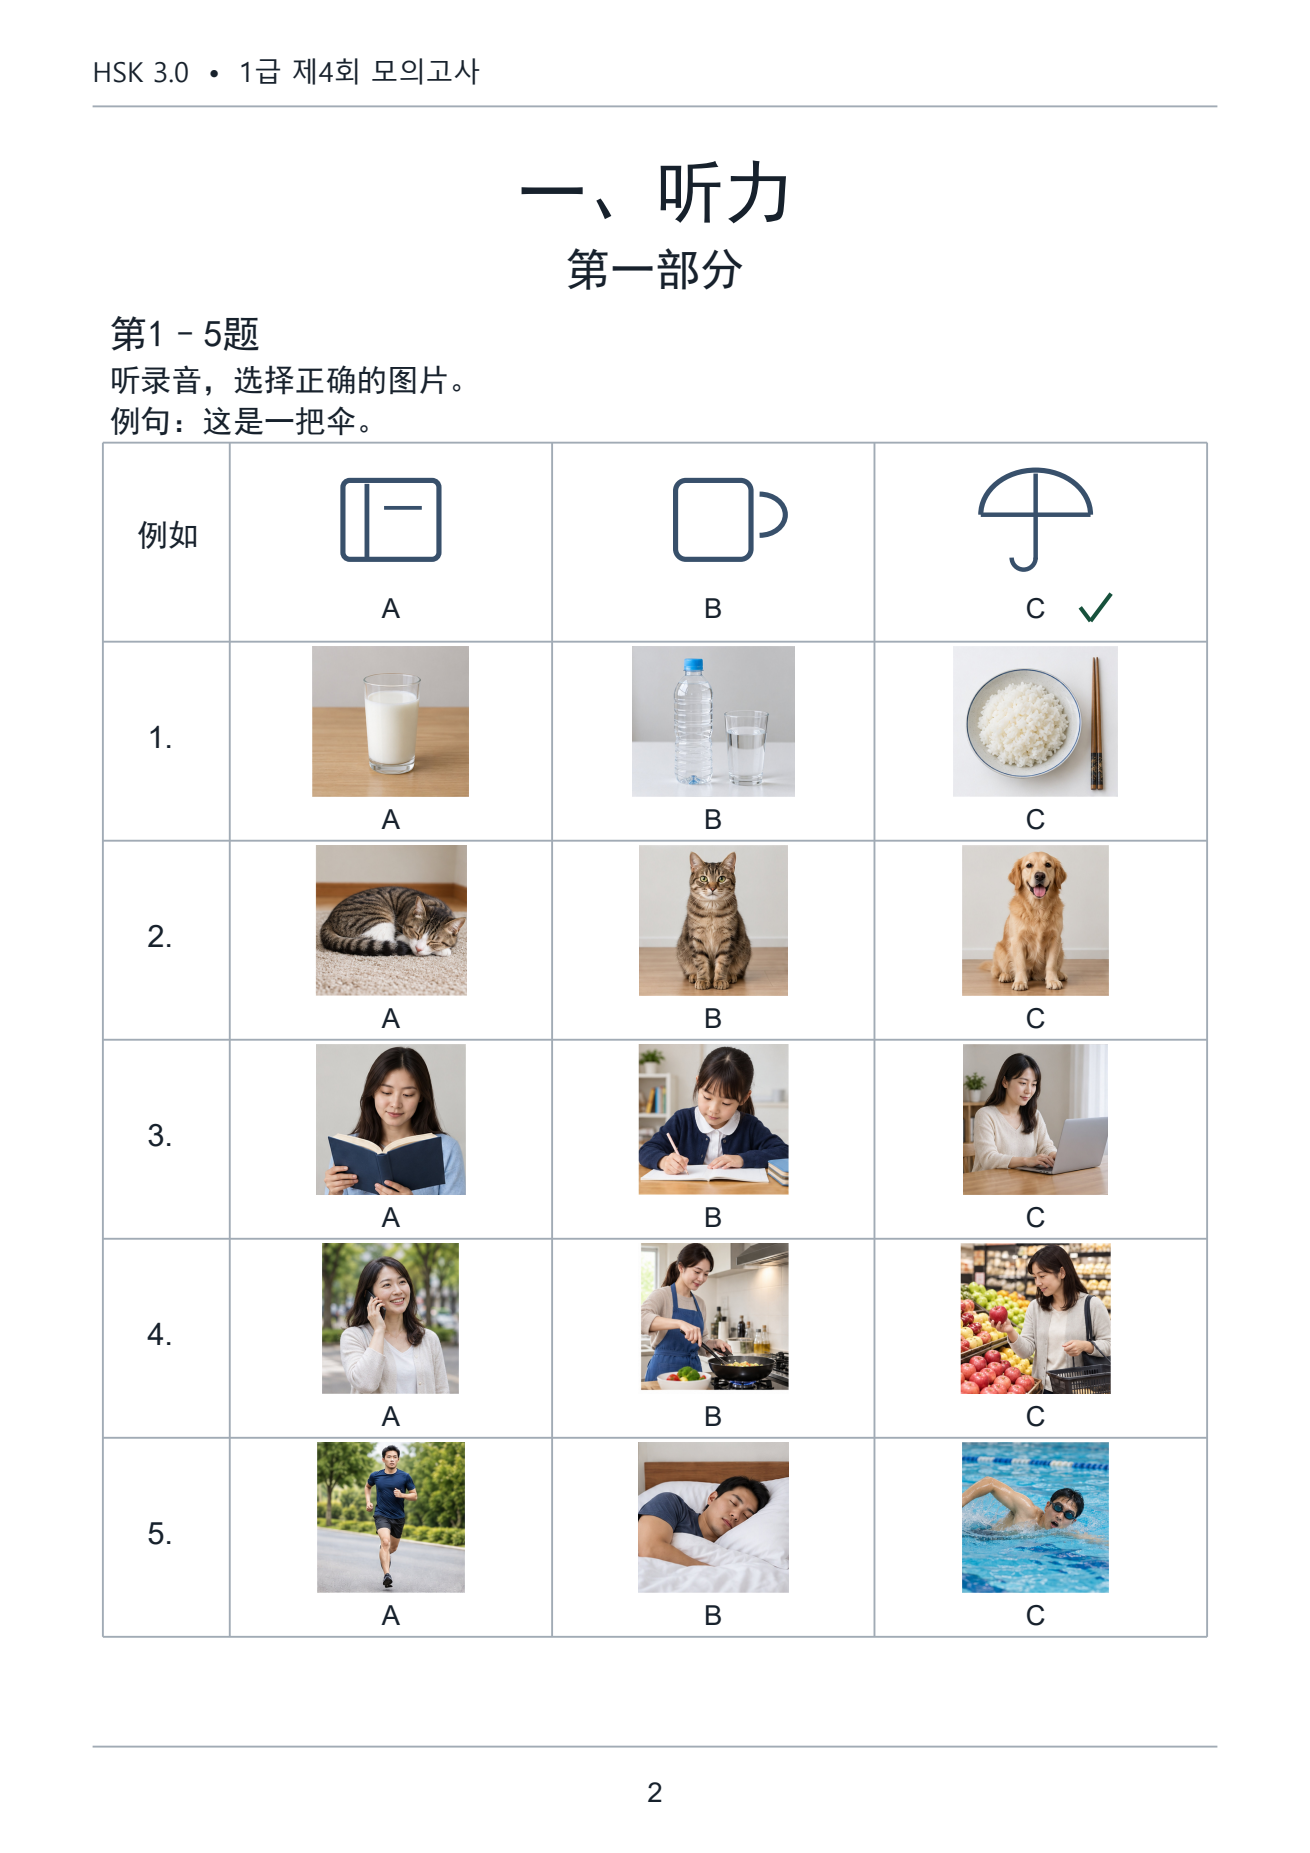
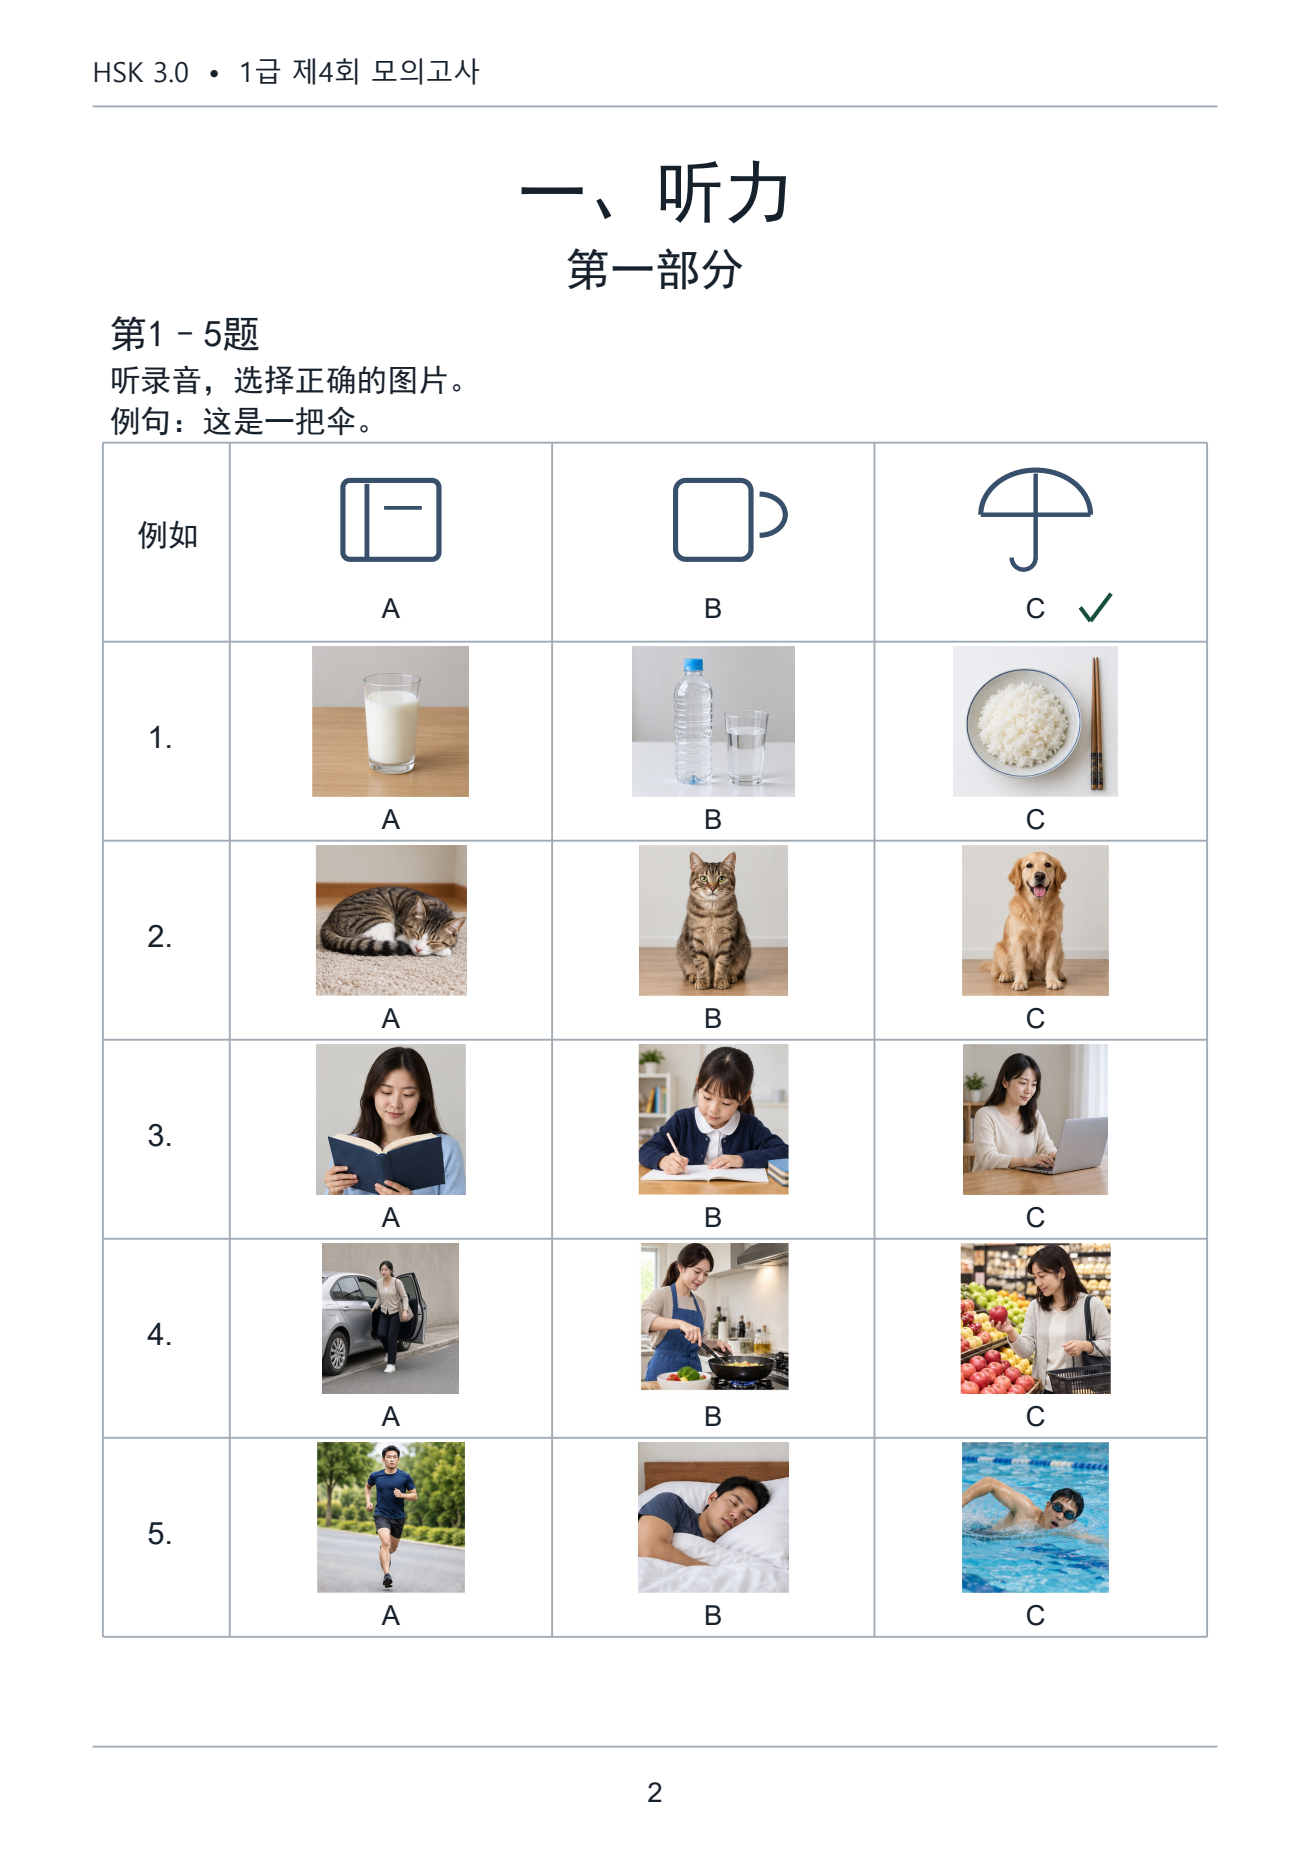
1급 제01·04·05회 중복 교체 배포 검증 기록 및 혼합 문항 정렬

Changed region(s): [[0.2443, 0.646, 0.3664, 0.769]]

diff --git a/tmp/pdfs/verify_content1_crops.py b/tmp/pdfs/verify_content1_crops.py
@@ -1,0 +1,82 @@
+"""Check source text bboxes carried by untouched raster crops."""
+from pathlib import Path
+import sys
+
+import pdfplumber
+import pypdfium2 as pdfium
+from pypdf import PdfReader
+
+from build_content1 import build, load_json, picture_boxes, text_bands
+from verify_content1_format import overlaps
+
+
+def audit(n):
+    tag = f'제{n:02}회'
+    doc = load_json(Path('scripts/content1') / f'{tag}.json')
+    parts = doc['parts']
+    source = PdfReader(doc['source'])
+    w, h = map(float, (source.pages[0].mediabox.width, source.pages[0].mediabox.height))
+    example_keys = ('L3', 'R1', 'R3')
+    answers = [parts[key]['example']['answer'] for key in example_keys]
+    stems = [tuple((v['hanzi'], v['pinyin']) for v in parts[key]['example']['stem'])
+             for key in example_keys]
+    with pdfium.PdfDocument(doc['source']) as rendered:
+        _, plans = build(n, w, h, lambda p: text_bands(rendered[p-1]),
+                         lambda p: picture_boxes(source.pages[p-1], 15 if p == 2 else 6),
+                         answers, (stems[0], stems[1][0], stems[2][0]))
+    new_path = Path('output') / f'HSK3.0_1급_{tag}_문제지.pdf'
+    with pdfplumber.open(doc['source']) as original, pdfplumber.open(new_path) as final:
+        problems = []
+        total = 0
+        for page, clips in zip(final.pages[1:], plans):
+            crop_lines = []
+            for slot, (i, (l, t, r, b), x, y, k, photo) in enumerate(clips):
+                if photo:
+                    continue
+                part = {3: 'L2', 5: 'L4', 6: 'R1', 7: 'R2', 8: 'R3', 9: 'R4'}[i]
+                row = slot - sum(c[-1] for c in clips[:slot]) - (i == 8)
+                if (i != 7 or row % 2 == 0) and row >= 0:
+                    if i == 7:
+                        row //= 2
+                    if i == 9 and page.page_number == 12:
+                        row += 3
+                    if 'original' in parts[part]['items'][row]:
+                        continue
+                p = original.pages[i-1]
+                sx, sy = p.width / 382, p.height / 540
+                fx, fy = w / 382, h / 540
+                lines = {}
+                for c in p.chars:
+                    if not c['text'].strip() or not (
+                        l < (c['x0']+c['x1'])/2/sx < r and t < (c['top']+c['bottom'])/2/sy < b
+                    ):
+                        continue
+                    box = dict(text=c['text'], x0=(x+(max(l,c['x0']/sx)-l)*k)*fx,
+                               x1=(x+(min(r,c['x1']/sx)-l)*k)*fx,
+                               top=(y+(max(t,c['top']/sy)-t)*k)*fy,
+                               bottom=(y+(min(b,c['bottom']/sy)-t)*k)*fy)
+                    lines.setdefault(round(c['matrix'][5], 1), []).append(box)
+                crop_lines.extend(lines.values())
+            vector_lines = {}
+            for c in page.chars:
+                if c['text'].strip():
+                    vector_lines.setdefault(round(c['matrix'][5], 1), []).append(c)
+            all_lines = sorted([*crop_lines, *vector_lines.values()], key=lambda line: min(c['top'] for c in line))
+            total += len(all_lines)
+            for j, upper in enumerate(all_lines):
+                bottom = max(c['bottom'] for c in upper)
+                for lower in all_lines[j+1:]:
+                    if min(c['top'] for c in lower) >= bottom:
+                        break
+                    for a in upper:
+                        for b in lower:
+                            if overlaps(a, b, 'x0', 'x1') and overlaps(a, b, 'top', 'bottom'):
+                                problems.append((page.page_number, a['text'], b['text'], round(min(a['bottom'], b['bottom']) - max(a['top'], b['top']), 2)))
+        print(tag, total, len(problems), problems[:15])
+        assert not problems
+
+
+for n in map(int, sys.argv[1:]):
+    if n not in (1, 4, 5):
+        raise SystemExit('This audit covers Level 1 sets 01, 04 and 05.')
+    audit(n)

diff --git a/tmp/pdfs/build_content1.py b/tmp/pdfs/build_content1.py
@@ -176,7 +176,9 @@ def draw_page(pdf, rendered, clips, parts, photos, page_no, scale, gaps):
         if 'original' not in item:
             draw_crop(pdf, rendered, clip, None)
         else:
-            gap = draw_item(pdf, part, item, x, y, scale)
+            # Match the baseline of the neighboring source crops on mixed pages.
+            mixed = any('original' not in row for row in data['items'])
+            gap = draw_item(pdf, part, item, x, y-1.5 if mixed else y, scale)
             if gap is not None:
                 gaps.append(gap)
 

diff --git a/output/진행상황.md b/output/진행상황.md
@@ -151,3 +151,35 @@
 - 전체 / 부분 1~4 (초) 654.14 / 130.61 / 128.55 / 166.91 / 185.99. SenseVoice 65/72 일치. 일곱 건은 「前边」을 「前面」으로 전사하거나 「儿」을 생략했다. JSON 원문으로 합성한 발화와 부분 MP3의 72개 발화 파형을 대조해 최소 상관계수 0.997028을 확인했다.
 - 제작 PDF `d0c4d02`, 플레이어 MP3 `0a87abf`. [플레이어](https://yanchunnu.github.io/-/hsk-listening.html?level=1&set=7)와 MP3 다섯 개 HTTP 200, MP3 크기·SHA-256 일치. 상세 항목은 `output/audio/배포.md`에 기록했다.
 - 미리보기 `output/preview/제07회_문제지-01~12.png`, `output/preview/제07회_정답및해설-01~03.png`, 비교 `output/preview/비교_제07회-01~12.png`.
+
+
+## 1급 제01회 중복 교체 반영
+
+- 7·23번(23번은 기존 정답 사진 재사용) 반영. 문제지 12쪽 4,258,685 B, 정답 및 해설 3쪽 67,366 B.
+- 제작 PDF·음원 `da130e8`, 플레이어 MP3 `d319d43` main 푸시. 바탕화면 PDF 사본 바이트 일치.
+- 전체 / 부분 1~4 (초) 628.25 / 124.36 / 125.60 / 158.20 / 178.08. SenseVoice 72/72 일치. JSON 원문 발화 파형 72개 및 전체와 부분 음원 대조 통과.
+- [제01회 플레이어](https://yanchunnu.github.io/-/hsk-listening.html?level=1&set=1) 및 MP3 5개 HTTP 200. MP3 응답 크기와 SHA-256 일치.
+- JSON 정답 40개와 듣기 원문, 표지 QR 1개, PDF 텍스트와 원본 크롭의 글자 bbox, 사진 겹침 검사 통과. 제02회와 쪽별 비교 PNG 및 해설 미리보기 검토.
+- 교체 선택지 최소 가로 간격 74.49pt.
+- 미리보기 `output/preview/제01회_문제지-01~12.png`, `output/preview/제01회_정답및해설-01~03.png`, `output/preview/비교_제01회-01~12.png`.
+
+
+## 1급 제04회 중복 교체 반영
+
+- 4번 및 사진 1장 반영. 문제지 12쪽 4,634,451 B, 정답 및 해설 3쪽 69,346 B.
+- 제작 PDF·음원 `017965e`, 플레이어 MP3 `06ab9df` main 푸시. 바탕화면 PDF 사본 바이트 일치.
+- 전체 / 부분 1~4 (초) 632.32 / 125.74 / 125.53 / 163.56 / 175.41. SenseVoice 70/72 일치. JSON 원문 발화 파형 72개 및 전체와 부분 음원 대조 통과. 재검토 전사 「今天不热，有点儿冷。」 → 「今天不热有点冷」.
+- [제04회 플레이어](https://yanchunnu.github.io/-/hsk-listening.html?level=1&set=4) 및 MP3 5개 HTTP 200. MP3 응답 크기와 SHA-256 일치.
+- JSON 정답 40개와 듣기 원문, 표지 QR 1개, PDF 텍스트와 원본 크롭의 글자 bbox, 사진 겹침 검사 통과. 제02회와 쪽별 비교 PNG 및 해설 미리보기 검토.
+- 미리보기 `output/preview/제04회_문제지-01~12.png`, `output/preview/제04회_정답및해설-01~03.png`, `output/preview/비교_제04회-01~12.png`.
+
+
+## 1급 제05회 중복 교체 반영
+
+- 3·18번 및 사진 1장 반영. 문제지 12쪽 4,494,070 B, 정답 및 해설 3쪽 68,646 B.
+- 제작 PDF·음원 `8498e4b`, 플레이어 MP3 `c77f283` main 푸시. 바탕화면 PDF 사본 바이트 일치.
+- 전체 / 부분 1~4 (초) 641.40 / 128.90 / 124.92 / 164.15 / 181.40. SenseVoice 69/72 일치. JSON 원문 발화 파형 72개 및 전체와 부분 음원 대조 통과. 재검토 전사 「我的朋友叫李月，她是中国人。」 → 「我的朋友叫李乐他是中国人」 / 「李月是哪国人？」 → 「李乐是哪国人」.
+- [제05회 플레이어](https://yanchunnu.github.io/-/hsk-listening.html?level=1&set=5) 및 MP3 5개 HTTP 200. MP3 응답 크기와 SHA-256 일치.
+- JSON 정답 40개와 듣기 원문, 표지 QR 1개, PDF 텍스트와 원본 크롭의 글자 bbox, 사진 겹침 검사 통과. 제02회와 쪽별 비교 PNG 및 해설 미리보기 검토.
+- 교체 선택지 최소 가로 간격 115.47pt.
+- 미리보기 `output/preview/제05회_문제지-01~12.png`, `output/preview/제05회_정답및해설-01~03.png`, `output/preview/비교_제05회-01~12.png`.
